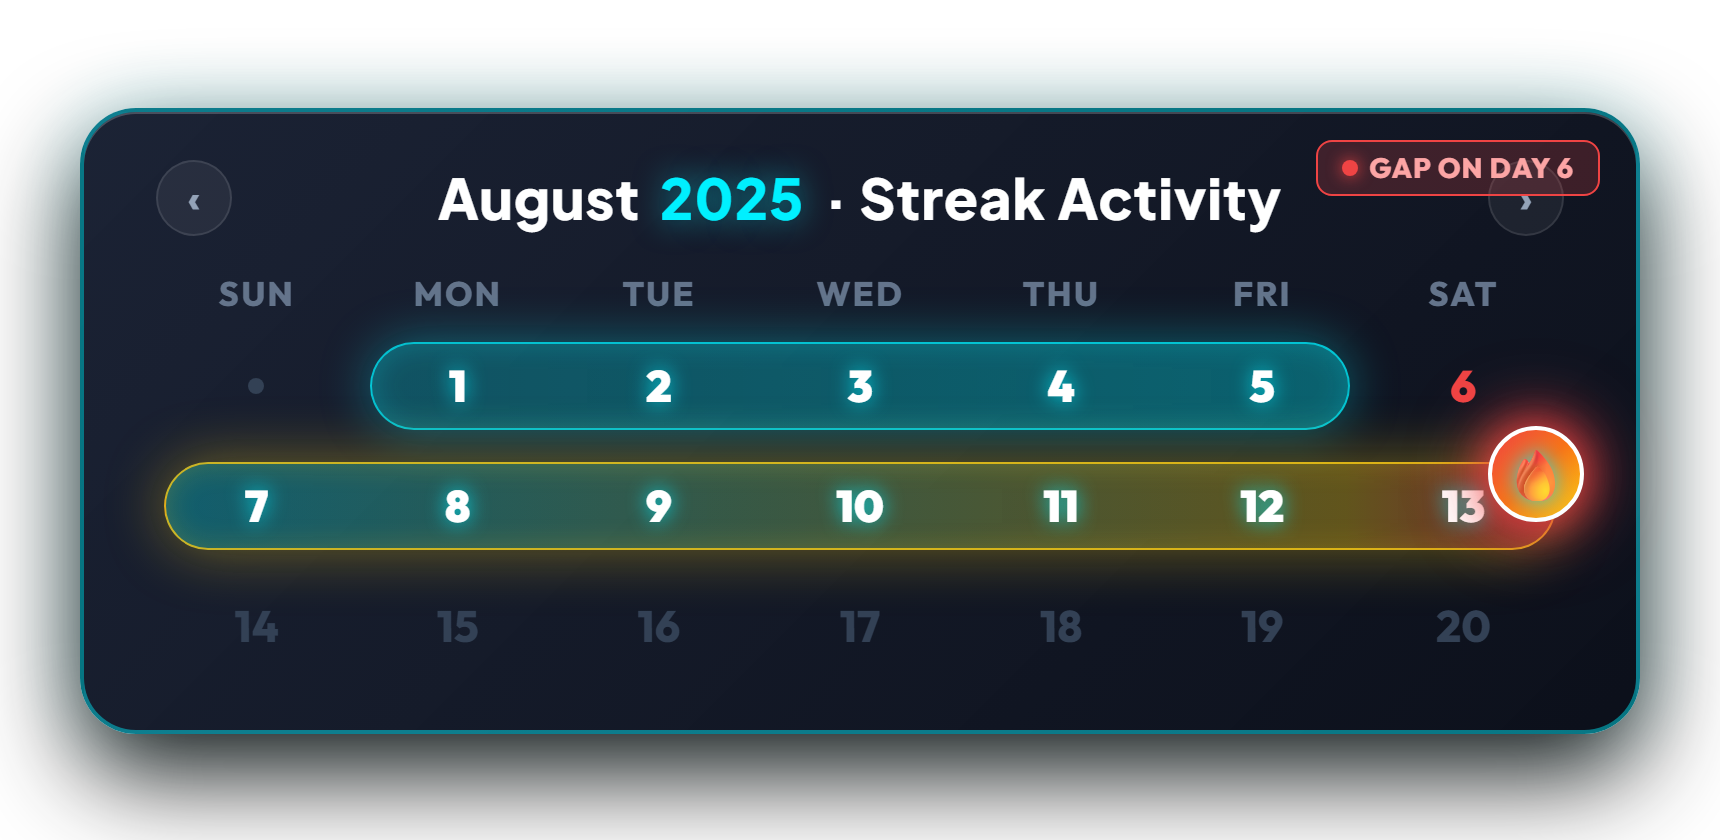
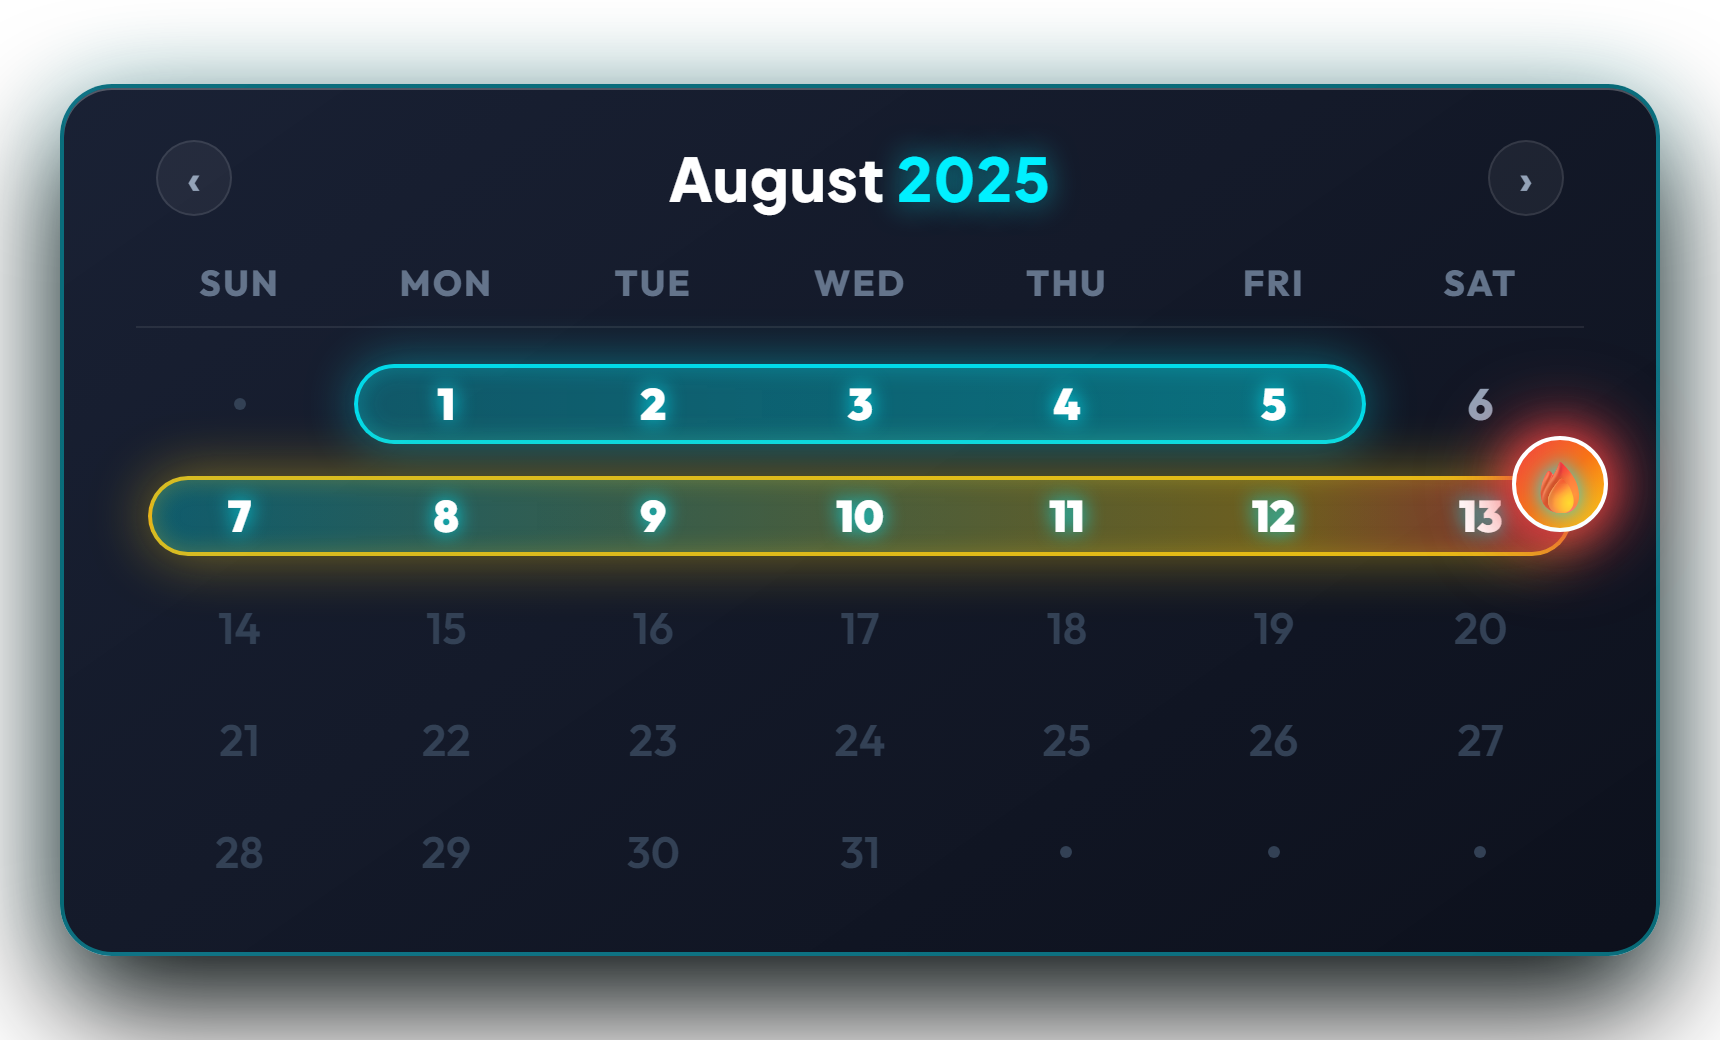
fix(marketing): remove gap spoiler badge and render authentic full-month streak calendar widget for SQL-10-R1 cover

diff --git a/marketing/render_dark_calendar.py b/marketing/render_dark_calendar.py
@@ -1,6 +1,6 @@
 """
-Renders a stunning dark cyberpunk 3D glassmorphic streak calendar widget
-representing the Gaps & Islands problem statement.
+Renders an authentic, realistic full-month dark cyberpunk streak calendar widget
+representing consecutive login streaks with zero spoilers.
 """
 import asyncio
 from pathlib import Path
@@ -20,7 +20,7 @@ CALENDAR_HTML = """<!DOCTYPE html>
 
   body {
     width: 860px;
-    height: 420px;
+    height: 520px;
     background: transparent;
     display: flex;
     align-items: center;
@@ -29,75 +29,76 @@ CALENDAR_HTML = """<!DOCTYPE html>
     overflow: hidden;
   }
 
-  /* 3D Glassmorphic Calendar Card */
+  /* 3D Glassmorphic Realistic Calendar Card */
   .calendar-card {
-    width: 780px;
-    background: linear-gradient(135deg, rgba(15, 23, 42, 0.95) 0%, rgba(7, 11, 22, 0.98) 100%);
-    border: 2px solid rgba(0, 240, 255, 0.45);
-    box-shadow: 0 20px 50px rgba(0, 0, 0, 0.9), 0 0 40px rgba(0, 240, 255, 0.2), inset 0 1px 0 rgba(255, 255, 255, 0.2);
-    border-radius: 28px;
-    padding: 24px 36px 28px 36px;
+    width: 800px;
+    background: linear-gradient(145deg, rgba(16, 24, 44, 0.96) 0%, rgba(8, 12, 24, 0.98) 100%);
+    border: 2px solid rgba(0, 240, 255, 0.4);
+    box-shadow: 0 25px 60px rgba(0, 0, 0, 0.95), 0 0 45px rgba(0, 240, 255, 0.2), inset 0 1px 0 rgba(255, 255, 255, 0.25);
+    border-radius: 26px;
+    padding: 26px 36px;
     position: relative;
     backdrop-filter: blur(24px);
   }
 
-  /* Month Header */
+  /* Month Header: Clean, Authentic, Centered */
   .cal-header {
     display: flex;
     justify-content: space-between;
     align-items: center;
-    margin-bottom: 18px;
+    margin-bottom: 22px;
+    padding: 0 10px;
   }
 
   .nav-arrow {
     width: 38px;
     height: 38px;
     border-radius: 50%;
-    background: rgba(255, 255, 255, 0.06);
+    background: rgba(255, 255, 255, 0.05);
     border: 1px solid rgba(255, 255, 255, 0.1);
     display: flex;
     align-items: center;
     justify-content: center;
     color: #94a3b8;
-    font-size: 20px;
-    font-weight: 800;
+    font-size: 22px;
+    font-weight: 700;
+    cursor: pointer;
   }
 
   .month-title {
     font-family: 'Plus Jakarta Sans', sans-serif;
-    font-size: 28px;
+    font-size: 30px;
     font-weight: 900;
     color: #ffffff;
     letter-spacing: 0.5px;
-    display: flex;
-    align-items: center;
-    gap: 10px;
   }
   .month-title span {
     color: #00f0ff;
-    text-shadow: 0 0 15px rgba(0, 240, 255, 0.5);
+    text-shadow: 0 0 15px rgba(0, 240, 255, 0.6);
   }
 
-  /* Days of Week Row */
+  /* Weekdays Header */
   .weekdays {
     display: grid;
     grid-template-columns: repeat(7, 1fr);
     text-align: center;
-    margin-bottom: 12px;
+    margin-bottom: 14px;
+    border-bottom: 1px solid rgba(255, 255, 255, 0.08);
+    padding-bottom: 10px;
   }
   .weekday {
-    font-size: 17px;
+    font-size: 18px;
     font-weight: 800;
     color: #64748b;
     letter-spacing: 1px;
     text-transform: uppercase;
   }
 
-  /* Calendar Dates Grid */
+  /* Full Calendar 5-Week Grid */
   .days-grid {
     display: flex;
     flex-direction: column;
-    gap: 12px;
+    gap: 8px;
   }
 
   .week-row {
@@ -106,6 +107,7 @@ CALENDAR_HTML = """<!DOCTYPE html>
     align-items: center;
     text-align: center;
     position: relative;
+    height: 48px;
   }
 
   .day-cell {
@@ -122,65 +124,58 @@ CALENDAR_HTML = """<!DOCTYPE html>
 
   .day-cell.muted {
     color: #334155;
+    font-weight: 600;
   }
 
-  .day-cell.empty-dot {
-    display: flex;
-    align-items: center;
-    justify-content: center;
-  }
   .day-cell.empty-dot::after {
     content: '';
-    width: 8px;
-    height: 8px;
+    width: 6px;
+    height: 6px;
     border-radius: 50%;
     background: #334155;
   }
 
-  /* Streak Highlight Pill 1: Days 1 - 5 */
+  /* Streak Capsule 1: Days 1 to 5 */
   .streak-pill-1 {
     position: absolute;
     left: calc(100% / 7 * 1 + 6px);
     right: calc(100% / 7 * 1 + 6px);
-    top: 2px;
-    bottom: 2px;
-    background: linear-gradient(90deg, rgba(0, 240, 255, 0.25) 0%, rgba(0, 240, 255, 0.35) 100%);
-    border: 1.5px solid rgba(0, 240, 255, 0.7);
+    top: 4px;
+    bottom: 4px;
+    background: linear-gradient(90deg, rgba(0, 240, 255, 0.28) 0%, rgba(0, 240, 255, 0.42) 100%);
+    border: 2px solid rgba(0, 240, 255, 0.85);
     border-radius: 999px;
-    box-shadow: 0 0 25px rgba(0, 240, 255, 0.35), inset 0 0 15px rgba(0, 240, 255, 0.2);
+    box-shadow: 0 0 25px rgba(0, 240, 255, 0.4), inset 0 0 12px rgba(0, 240, 255, 0.25);
     z-index: 1;
   }
 
-  /* Streak Highlight Pill 2: Days 7 - 13 */
+  /* Streak Capsule 2: Days 7 to 13 with Flame */
   .streak-pill-2 {
     position: absolute;
-    left: 4px;
-    right: 4px;
-    top: 2px;
-    bottom: 2px;
-    background: linear-gradient(90deg, rgba(0, 240, 255, 0.3) 0%, rgba(250, 204, 21, 0.35) 85%, rgba(239, 68, 68, 0.45) 100%);
-    border: 1.5px solid rgba(250, 204, 21, 0.8);
+    left: 6px;
+    right: 6px;
+    top: 4px;
+    bottom: 4px;
+    background: linear-gradient(90deg, rgba(0, 240, 255, 0.3) 0%, rgba(250, 204, 21, 0.4) 80%, rgba(239, 68, 68, 0.5) 100%);
+    border: 2px solid rgba(250, 204, 21, 0.85);
     border-radius: 999px;
-    box-shadow: 0 0 30px rgba(250, 204, 21, 0.4), inset 0 0 15px rgba(250, 204, 21, 0.2);
+    box-shadow: 0 0 30px rgba(250, 204, 21, 0.45), inset 0 0 12px rgba(250, 204, 21, 0.25);
     z-index: 1;
   }
 
   .active-day {
     color: #ffffff !important;
     font-weight: 900 !important;
-    text-shadow: 0 0 10px rgba(0, 240, 255, 0.8);
+    text-shadow: 0 0 10px rgba(0, 240, 255, 0.9);
   }
 
-  /* Fire Flame Streak Icon on Day 13 */
+  /* Flame Badge on Day 13 */
   .fire-container {
     position: absolute;
-    right: -10px;
+    right: -12px;
     top: -16px;
     z-index: 10;
-    display: flex;
-    align-items: center;
-    justify-content: center;
-    filter: drop-shadow(0 0 16px rgba(239, 68, 68, 0.9));
+    filter: drop-shadow(0 0 18px rgba(239, 68, 68, 0.95));
   }
   .fire-badge {
     background: linear-gradient(135deg, #ef4444 0%, #f97316 50%, #facc15 100%);
@@ -191,47 +186,22 @@ CALENDAR_HTML = """<!DOCTYPE html>
     align-items: center;
     justify-content: center;
     font-size: 26px;
-    box-shadow: 0 0 20px rgba(239, 68, 68, 0.8);
     border: 2px solid #ffffff;
-    animation: pulse 2s infinite;
+    box-shadow: 0 0 22px rgba(239, 68, 68, 0.9);
   }
-
-  /* Gap Marker Callout */
-  .gap-callout {
-    position: absolute;
-    right: 18px;
-    top: 14px;
-    background: rgba(239, 68, 68, 0.2);
-    border: 1px solid #ef4444;
-    color: #fca5a5;
-    padding: 4px 12px;
-    border-radius: 8px;
-    font-size: 14px;
-    font-weight: 800;
-    letter-spacing: 0.5px;
-    display: flex;
-    align-items: center;
-    gap: 6px;
-  }
-  .gap-dot { width: 8px; height: 8px; border-radius: 50%; background: #ef4444; box-shadow: 0 0 8px #ef4444; }
 </style>
 </head>
 <body>
 
   <div class="calendar-card">
-    <div class="gap-callout">
-      <div class="gap-dot"></div>
-      <span>GAP ON DAY 6</span>
-    </div>
-
-    <!-- Header -->
+    <!-- Clean Centered Month Header -->
     <div class="cal-header">
       <div class="nav-arrow">‹</div>
-      <div class="month-title">August <span>2025</span> · Streak Activity</div>
+      <div class="month-title">August <span>2025</span></div>
       <div class="nav-arrow">›</div>
     </div>
 
-    <!-- Weekdays -->
+    <!-- Weekdays Header -->
     <div class="weekdays">
       <div class="weekday">Sun</div>
       <div class="weekday">Mon</div>
@@ -242,9 +212,9 @@ CALENDAR_HTML = """<!DOCTYPE html>
       <div class="weekday">Sat</div>
     </div>
 
-    <!-- Dates Grid -->
+    <!-- Full Realistic Monthly Dates Grid -->
     <div class="days-grid">
-      <!-- Row 1: Streak 1 to 5, Gap on 6 -->
+      <!-- Week 1: Days 1 - 6 (Streak 1-5, Day 6 regular/unmarked) -->
       <div class="week-row">
         <div class="streak-pill-1"></div>
         <div class="day-cell empty-dot"></div>
@@ -253,10 +223,10 @@ CALENDAR_HTML = """<!DOCTYPE html>
         <div class="day-cell active-day">3</div>
         <div class="day-cell active-day">4</div>
         <div class="day-cell active-day">5</div>
-        <div class="day-cell" style="color:#ef4444; font-weight:900;">6</div>
+        <div class="day-cell">6</div>
       </div>
 
-      <!-- Row 2: Streak 7 to 13 with Flame -->
+      <!-- Week 2: Days 7 - 13 (Streak 7-13 with Flame on 13) -->
       <div class="week-row">
         <div class="streak-pill-2"></div>
         <div class="day-cell active-day">7</div>
@@ -273,7 +243,7 @@ CALENDAR_HTML = """<!DOCTYPE html>
         </div>
       </div>
 
-      <!-- Row 3: Inactive Days -->
+      <!-- Week 3: Days 14 - 20 -->
       <div class="week-row">
         <div class="day-cell muted">14</div>
         <div class="day-cell muted">15</div>
@@ -282,6 +252,28 @@ CALENDAR_HTML = """<!DOCTYPE html>
         <div class="day-cell muted">18</div>
         <div class="day-cell muted">19</div>
         <div class="day-cell muted">20</div>
+      </div>
+
+      <!-- Week 4: Days 21 - 27 -->
+      <div class="week-row">
+        <div class="day-cell muted">21</div>
+        <div class="day-cell muted">22</div>
+        <div class="day-cell muted">23</div>
+        <div class="day-cell muted">24</div>
+        <div class="day-cell muted">25</div>
+        <div class="day-cell muted">26</div>
+        <div class="day-cell muted">27</div>
+      </div>
+
+      <!-- Week 5: Days 28 - 31 -->
+      <div class="week-row">
+        <div class="day-cell muted">28</div>
+        <div class="day-cell muted">29</div>
+        <div class="day-cell muted">30</div>
+        <div class="day-cell muted">31</div>
+        <div class="day-cell empty-dot"></div>
+        <div class="day-cell empty-dot"></div>
+        <div class="day-cell empty-dot"></div>
       </div>
     </div>
   </div>
@@ -293,12 +285,12 @@ CALENDAR_HTML = """<!DOCTYPE html>
 async def render():
     async with async_playwright() as p:
         browser = await p.chromium.launch(headless=True)
-        page = await browser.new_page(viewport={"width": 860, "height": 420}, device_scale_factor=2.0)
+        page = await browser.new_page(viewport={"width": 860, "height": 520}, device_scale_factor=2.0)
         await page.set_content(CALENDAR_HTML)
         await page.wait_for_timeout(300)
         OUTPUT_IMG.parent.mkdir(parents=True, exist_ok=True)
         await page.screenshot(path=str(OUTPUT_IMG), type="png", omit_background=True)
-        print(f"Rendered dark calendar widget: {OUTPUT_IMG}")
+        print(f"Rendered realistic full calendar widget: {OUTPUT_IMG}")
         await browser.close()
 
 if __name__ == "__main__":

diff --git a/marketing/generate_final_problem_cover.py b/marketing/generate_final_problem_cover.py
@@ -153,11 +153,11 @@ HTML_TEMPLATE = f"""<!DOCTYPE html>
     display: flex;
     align-items: center;
     justify-content: center;
-    margin: 4px 0;
+    margin: 6px 0;
   }}
   .problem-visual-frame img {{
     width: 100%;
-    max-height: 380px;
+    max-height: 450px;
     object-fit: contain;
     filter: drop-shadow(0 20px 40px rgba(0, 0, 0, 0.9));
   }}
